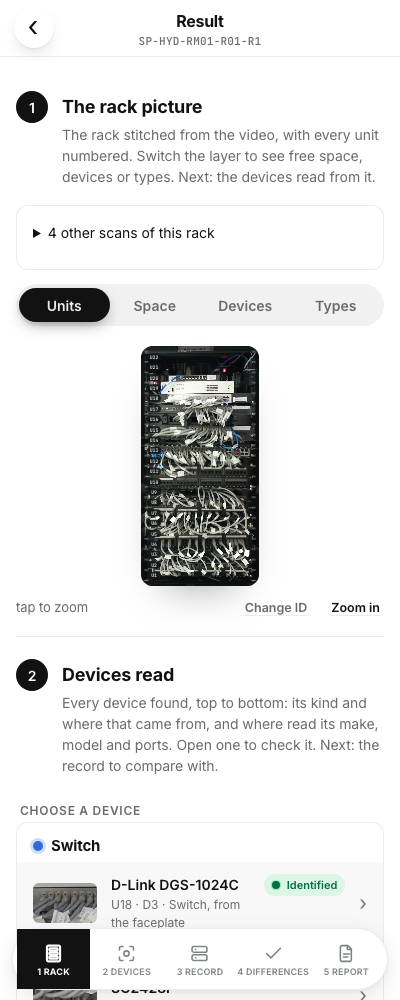
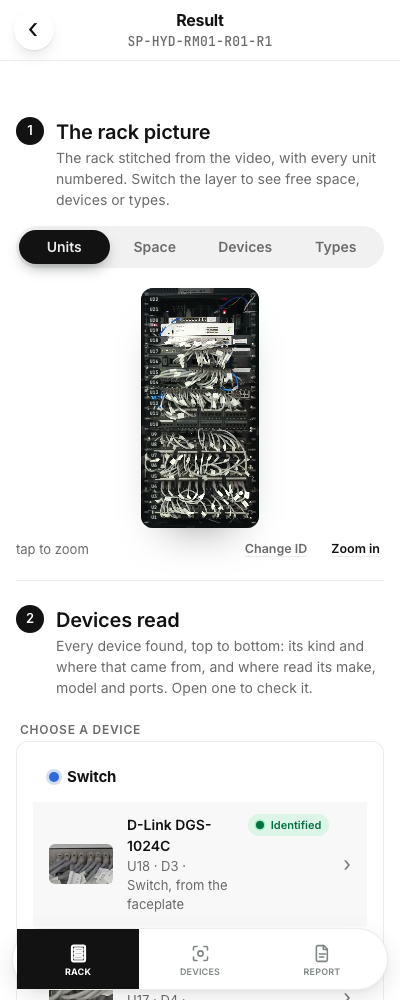
A stray closing tag pushed the Profile, Connections, copies and accuracy screens out of the page column at laptop width; fixed. Scan reads from the left edge like every screen, with the picker and Analyse beside How to film at laptop width

diff --git a/mobile/flow.css b/mobile/flow.css
@@ -129,3 +129,12 @@ table.rptable, table.dftable, table.cptable, table.wbtable { border-collapse:col
   .rptable td:nth-child(2) { width:auto !important; } .rptable td, .rptable th { padding:8px !important; }
   .rptable td:first-child { white-space:nowrap; }
 }
+/* Scan: the heading on the left edge like every screen; at laptop width the picker and Analyse on the left, How to film beside it */
+.scanpage .swh { text-align:left !important; max-width:none !important; margin:0 !important; align-items:flex-start !important; }
+.scanpage .scanbody { max-width:none !important; width:100%; margin:0 !important; }
+@media (min-width:900px) {
+  .scanpage .scanbody { display:grid !important; grid-template-columns:minmax(0, 3fr) minmax(0, 2fr); gap:16px 32px; align-items:start; align-content:start !important; min-height:0 !important; }
+  .scanpage .scanbody > #dropzone { grid-column:1; grid-row:1; } .scanpage .scanbody > .scanfoot { grid-column:1; grid-row:2; }
+  .scanpage .scanbody > #sw-tips { grid-column:2; grid-row:1 / span 2; }
+}
+.scanpage .or { border:0 !important; font-family:var(--font) !important; font-size:13px !important; color:var(--t2); }

diff --git a/mobile/index.html b/mobile/index.html
@@ -15,7 +15,7 @@
 <link rel="preload" href="/app/fonts/inter-latin.woff2" as="font" type="font/woff2" crossorigin>
 <link rel="stylesheet" href="/app/app.css?v=127">
 <link rel="stylesheet" href="/app/rt/rt-topology.css?v=12">
-<link rel="stylesheet" href="/app/flow.css?v=6">
+<link rel="stylesheet" href="/app/flow.css?v=8">
 <style>
 /* the Drift tab: the database the run is checked against, the matched record, the differences */
 #df-top { display:flex; flex-direction:column; gap:12px; width:100%; }
@@ -278,7 +278,7 @@
     <div class="rpart" id="res-report"><div id="rp-top"></div>
       <div class="cmpsec" id="sec-compare"><h3>Compare against the database</h3><p class="muted small">Choose Excel workbook, NetBox or ServiceNow CMDB and press Compare. Check which rack it matched, then Continue. Nothing is ever written back to the database.</p><div id="df-top"></div></div>
       <div class="cmpsec" id="sec-diff"><div id="diff-top"></div></div>
-      <div id="res-others"></div></div></div>
+      <div id="res-others"></div></div>
   </section>
 
   <!-- more -->
